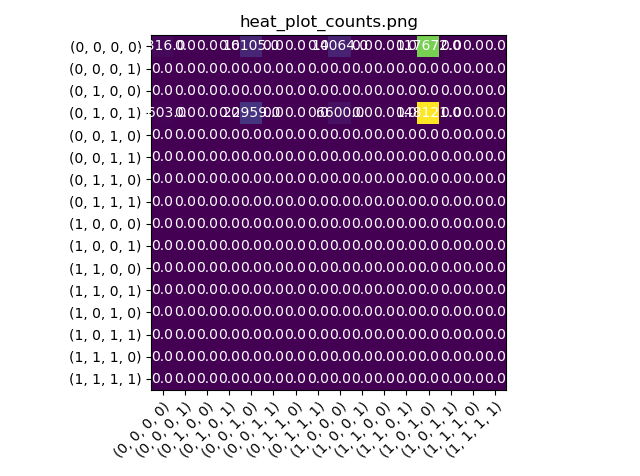
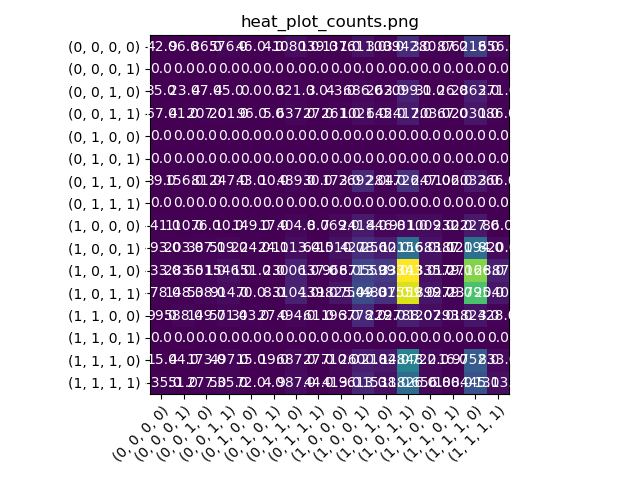
plots make sense now

Changed region(s): [[0.0938, 0.0294, 0.8125, 0.9706]]

diff --git a/src/transition_counting/state_processor.py b/src/transition_counting/state_processor.py
@@ -24,14 +24,10 @@ class StateProcessor:
     def increment_matrix(
         self,
         matrix,
-        low_previous_state: str,
-        low_current_state,
-        high_previous_state,
-        high_current_state,
-        low_previous_talk_state: str,
-        low_current_talk_state: str,
-        high_previous_talk_state: str,
-        high_current_talk_state: str,
+            previous_high_gaze_state: str, current_high_gaze_state : str,
+            previous_high_talk_state : str, current_high_talk_state : str,
+            previous_low_gaze_state : str, current_low_gaze_state: str,
+            previous_low_talk_state: str, current_low_talk_state: str,
         increment_value: int,
     ):
         """
@@ -44,21 +40,21 @@ class StateProcessor:
          by increment_value
         """
 
-        low_previous_gaze = self.get_state_id(low_previous_state)
-        low_current_gaze = self.get_state_id(low_current_state)
-        high_previous_gaze = self.get_state_id(high_previous_state)
-        high_current_gaze = self.get_state_id(high_current_state)
+        low_previous_gaze = self.get_state_id(previous_low_gaze_state)
+        low_current_gaze = self.get_state_id(current_low_gaze_state)
+        high_previous_gaze = self.get_state_id(previous_high_gaze_state)
+        high_current_gaze = self.get_state_id(current_high_gaze_state)
 
-        low_previous_talk = self.get_talk_id(low_previous_talk_state)
-        low_current_talk = self.get_talk_id(low_current_talk_state)
-        high_previous_talk = self.get_talk_id(high_previous_talk_state)
-        high_current_talk = self.get_talk_id(high_current_talk_state)
+        low_previous_talk = self.get_talk_id(previous_low_talk_state)
+        low_current_talk = self.get_talk_id(current_low_talk_state)
+        high_previous_talk = self.get_talk_id(previous_high_talk_state)
+        high_current_talk = self.get_talk_id(current_high_talk_state)
 
         matrix[
-            high_previous_gaze][high_current_gaze][
-            high_previous_talk][high_current_talk][
-            low_previous_gaze][low_current_gaze][
-            low_previous_talk][low_current_talk
+            high_previous_gaze][high_previous_talk][
+            low_previous_gaze][low_previous_talk][
+            high_current_gaze][high_current_talk][
+            low_current_gaze][low_current_talk
         ] += increment_value
 
         return matrix

diff --git a/src/mdp_const.py b/src/mdp_const.py
@@ -17,8 +17,8 @@ class MdpConsts:
         """
         result = []
         for hg in cls.__LIST_OF_LOOKING_STATES:
-            for lg in cls.__LIST_OF_LOOKING_STATES:
-                for ht in cls.__LIST_OF_TALKING_STATES:
+            for ht in cls.__LIST_OF_TALKING_STATES:
+                for lg in cls.__LIST_OF_LOOKING_STATES:
                     for lt in cls.__LIST_OF_TALKING_STATES:
                         result.append((hg,ht,lg,lt))
 
